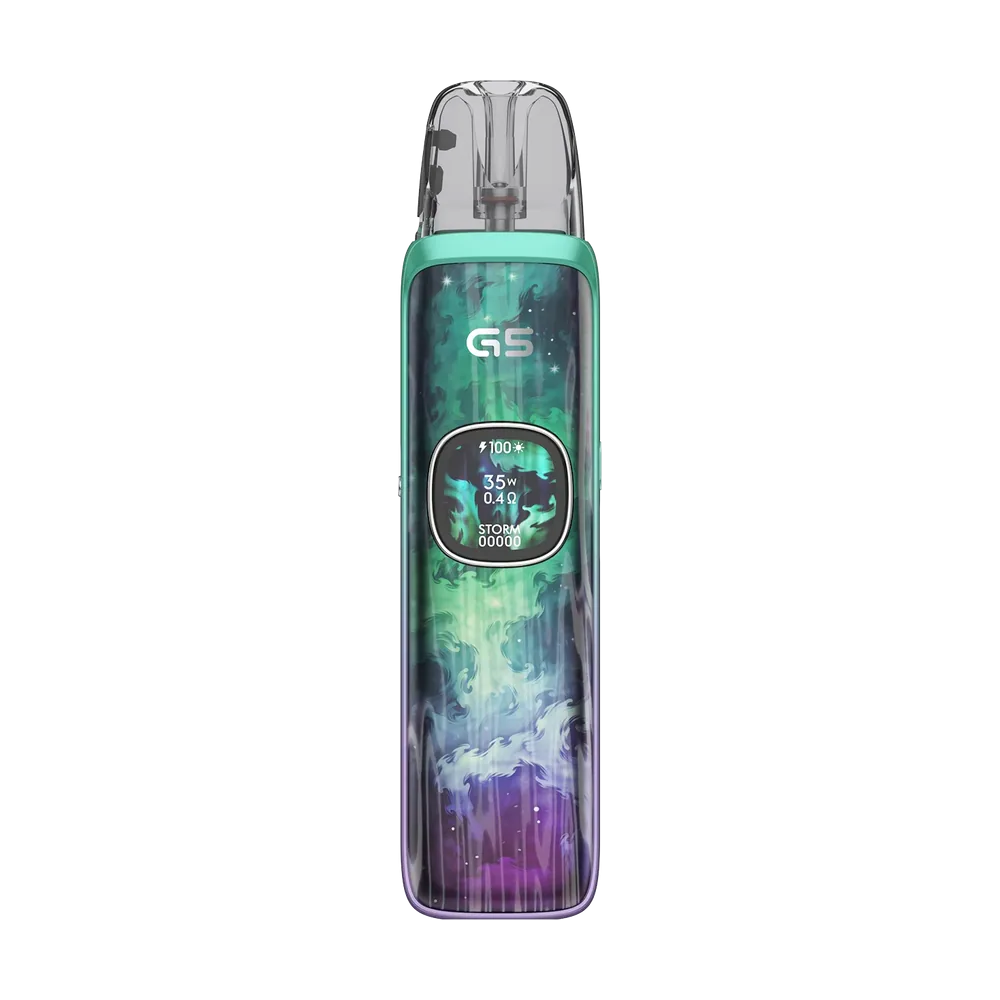
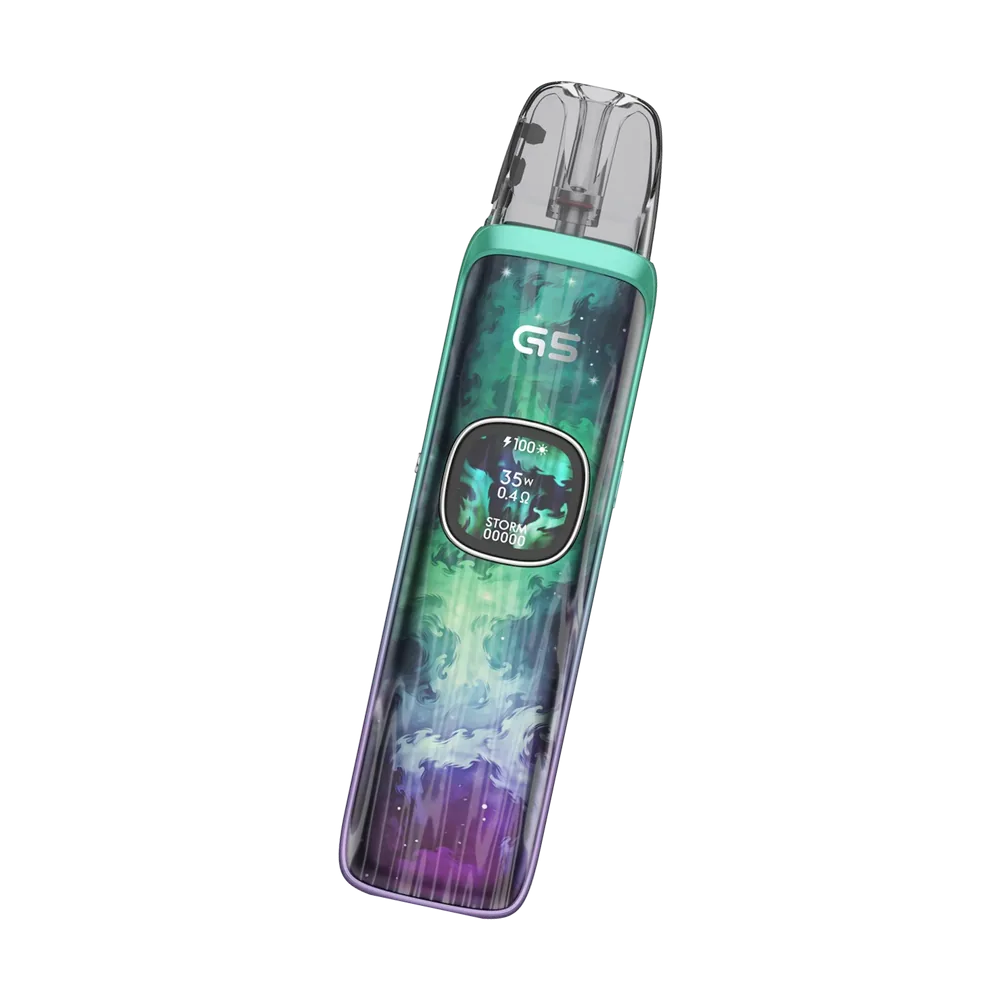
feat(images): Caliburn G5 — tilted card + colours, new all-colours image
Owner 02/10 picks: card B (UWELL's own Mystic Forest render turned 12°, 4:5
card-v2.webp) and "เอียงทุกสีเลย" — every colour image is its UWELL render turned
12° the same way (variant-*-v2.webp, never deployed, so the names are reused).
All-colours image = pick 3: Mystic Forest big in front on the left, the other
six behind in two upright tiers, soft contact shadow + faint reflection as
semi-transparent pixels (IMAGE_SPEC §0 item 8), lineup-v2.webp 1600², q90.
No AI, 0 credits. card.png stays for the home Scene2Uwell (not touched).

Changed region(s): [[0.341, 0.062, 0.682, 0.93]]

diff --git a/src/data/products/uwell.ts b/src/data/products/uwell.ts
@@ -52,9 +52,11 @@ export const uwellProducts: Product[] = [
       {
         kind: "official-photo",
         role: "card",
-        src: "/assets/products/caliburn-g5/card.png",
-        alt: "UWELL Caliburn G5, Mystic Forest colourway, isolated product shot",
-        angle: "Front, isolated",
+        // Image-sitewide round 3b (0), owner 02/10 card B: UWELL's own Mystic Forest render turned 12° (card.png stays
+        // on disk for the home Scene2Uwell, which is not touched).
+        src: "/assets/products/caliburn-g5/card-v2.webp",
+        alt: "UWELL Caliburn G5, Mystic Forest colourway, tilted product shot",
+        angle: "Front, tilted 12°",
         transparentBackground: true,
         sourceName: "UWELL",
         sourceUrl: "https://www.myuwell.com/products/caliburn",
@@ -102,12 +104,14 @@ export const uwellProducts: Product[] = [
     // Image-sitewide round 3b (0), 02/10 (owner: "Focus Caliburn 5 ทุกสี ทุกรูป รูปรวม"): all seven colours now use
     // UWELL's own per-colour renders from the G5 page ("Pick Your Vibe",
     // files.myuwell.com/uwell/product/caliburn-g5/pc/pic9-<n>-product.webp) — the gascityvapes cut-outs above had broken
-    // pod edges and patch marks. Mystic Forest = the same render as card.png (which stays the card), at full size so
-    // every colour swipes at one scale. Mapping in scripts/process-images.map.json (*-v2.webp, lesson พ6).
+    // pod edges and patch marks — each turned 12° like the card (owner: "เอียงทุกสีเลย"). Mapping in
+    // scripts/process-images.map.json (*-v2.webp, lesson พ6). The all-colours image is the owner's pick 3 of 02/10:
+    // Mystic Forest big in front on the left, the other six behind in two upright tiers, a soft contact shadow and a
+    // faint reflection kept as semi-transparent pixels (IMAGE_SPEC §0 item 8) — _incoming/image-sitewide/g5/poster.js.
     lineupImage: {
-      src: "/assets/products/caliburn-g5/lineup.webp",
-      alt: "UWELL Caliburn G5, all 7 colors",
-      sourceName: "OKami24 composite (from individually-verified official/retailer photos)",
+      src: "/assets/products/caliburn-g5/lineup-v2.webp",
+      alt: "UWELL Caliburn G5, all 7 colours",
+      sourceName: "OKami24 composite (from UWELL's own per-colour renders)",
     },
     colorVariants: [
       {
